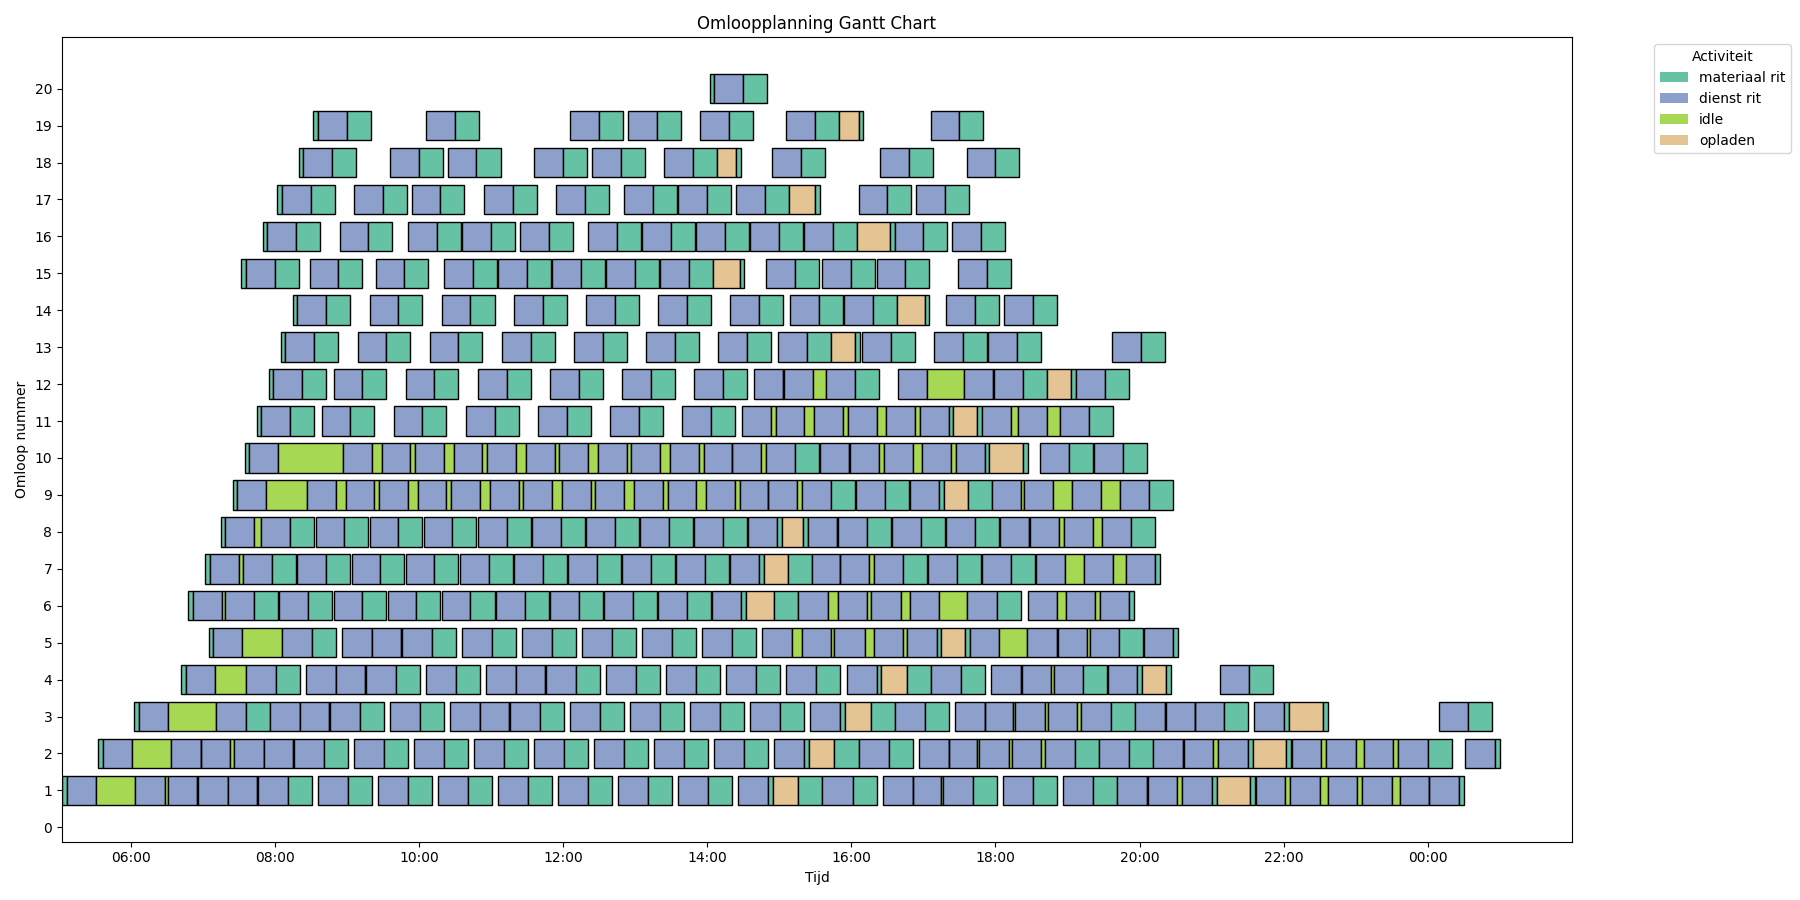
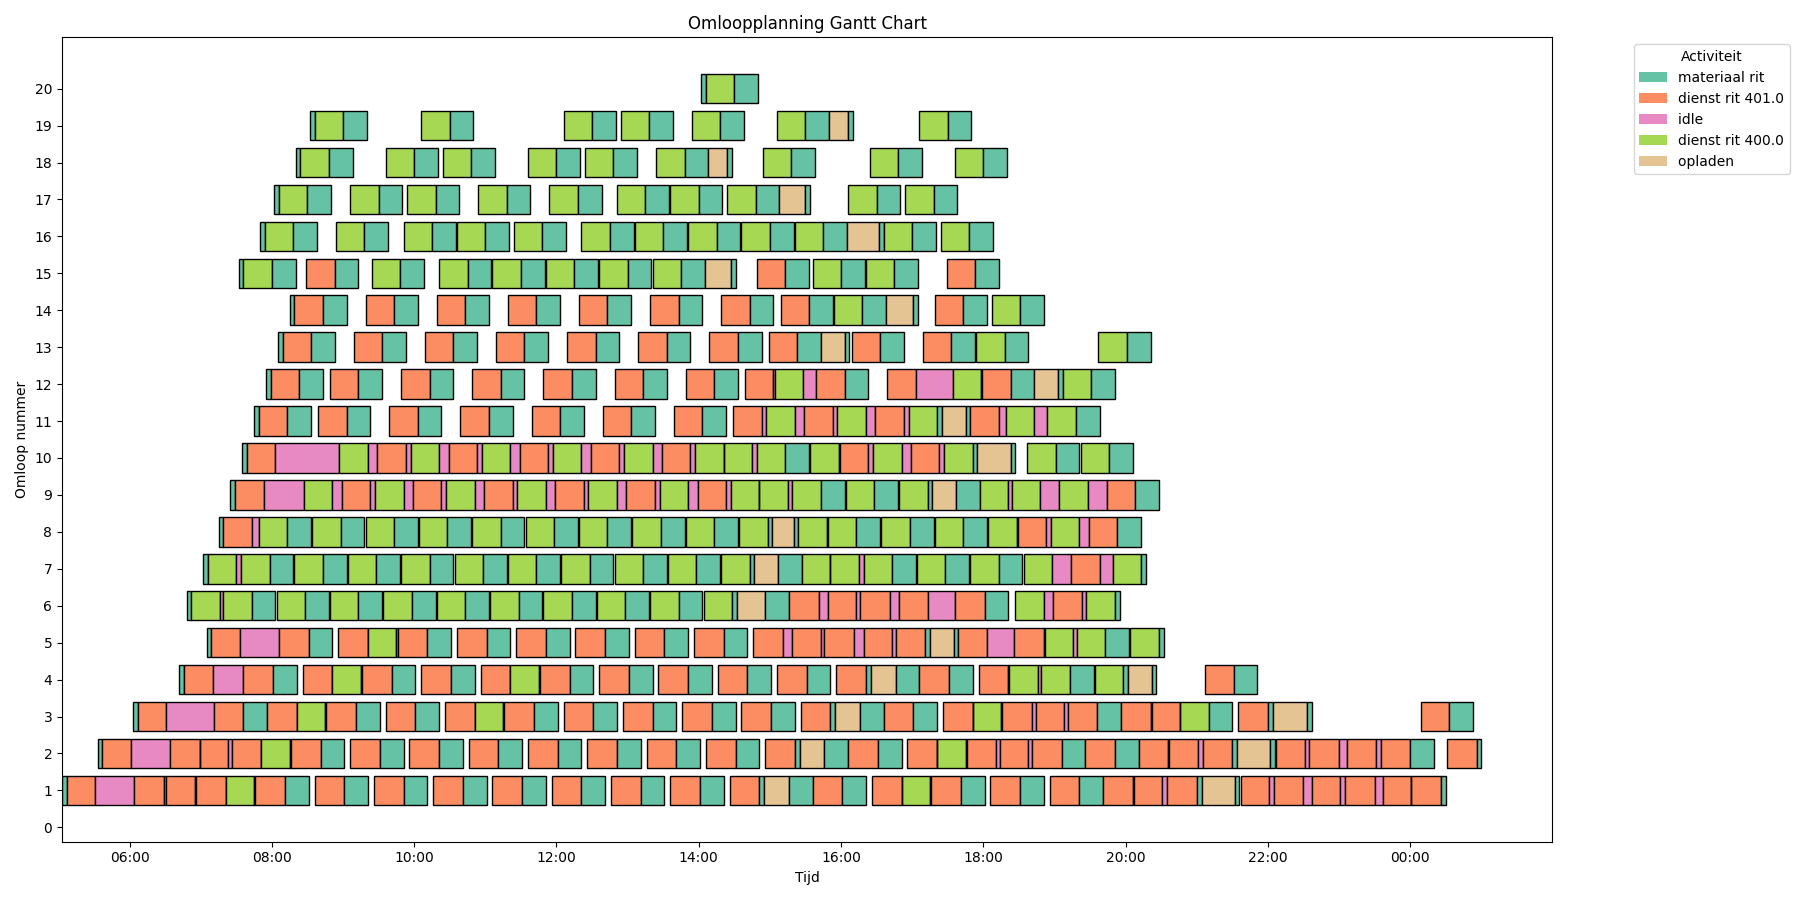
Gantt Chart legenda update

diff --git a/Gantt chart omloopplanning.py b/Gantt chart omloopplanning.py
@@ -10,7 +10,8 @@ df['starttijd datum'] = pd.to_datetime(df['starttijd datum'])
 df['eindtijd datum'] = pd.to_datetime(df['eindtijd datum'])
 
 # Assign a color to each unique activity
-activities = df['activiteit'].unique()
+df['actieviteitBuslijn'] = df['activiteit'] + ' ' + df['buslijn'].fillna(' ').astype(str)
+activities = df['actieviteitBuslijn'].unique()
 
 # Use the updated method to get the colormap
 cmap = plt.colormaps.get_cmap('Set2')
@@ -25,7 +26,7 @@ for idx, row in df.iterrows():
     ax.barh(row['omloop nummer'], 
             row['eindtijd datum'] - row['starttijd datum'], 
             left=row['starttijd datum'], 
-            color=color_dict[row['activiteit']],
+            color=color_dict[row['actieviteitBuslijn']],
             edgecolor='black')
 
 # Format x-axis for time
